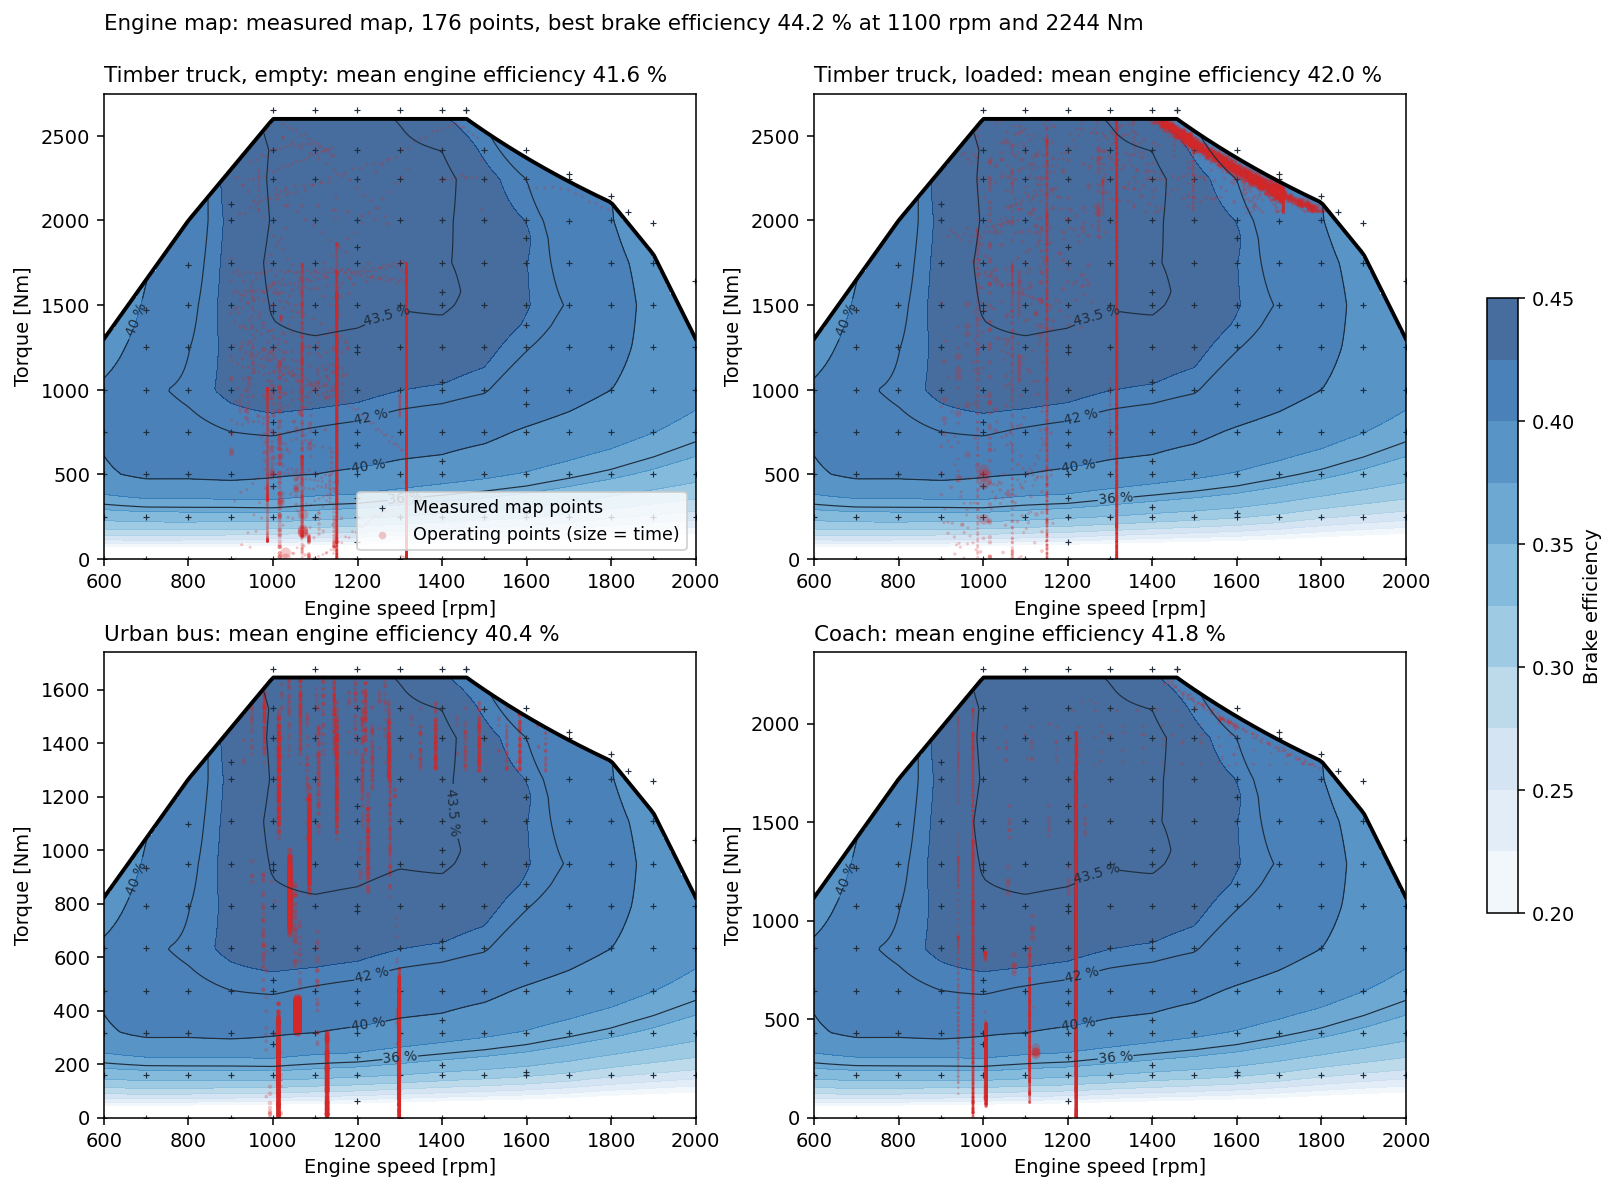
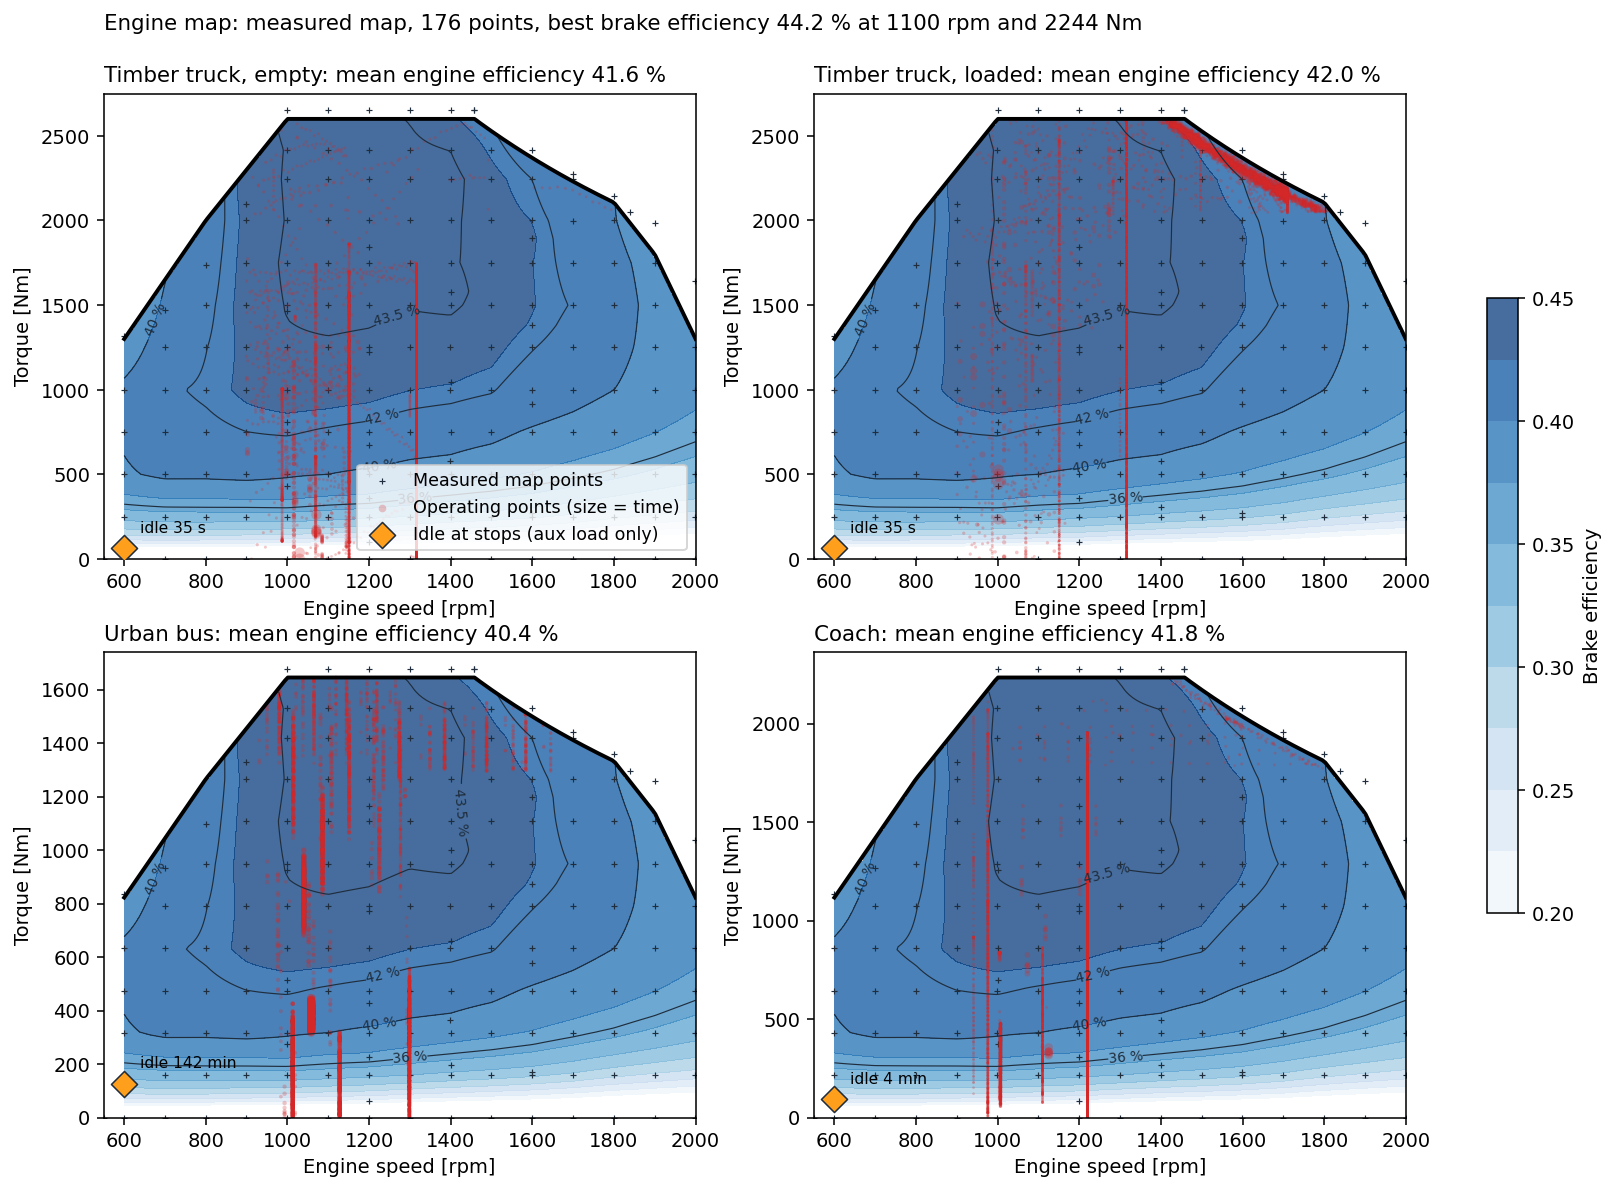
mini-VECTO 0.2.1: FCEV energy management gives priority to regeneration
- electric.py: when the buffer battery cannot take more charge, the fuel cell
  now backs off first (to its minimum load, ramp limited) and only then is
  regeneration cut. Before, regeneration was cut first while the fuel cell kept
  charging the battery. Loaded timber leg: regeneration 30 % -> 67 % of braking,
  H2 17.3 -> 16.0 kg/100 km (new stack). Other missions change by < 1 %.
- electric.py: P_motor_el_kW now reports the motor power after the cut.
- vehicles.json: timber truck buffer battery C_discharge 5.71 = 400 kW / 70 kWh
  (GenH2); C_charge 3C flagged as assumption with sensitivity; EMS rule in notes.
- plot_operating_points.py: idle at stops drawn (600 rpm, auxiliary torque).
- README: updated results and how to read the operating-points figure.

Claude-Session: https://claude.ai/code/session_01DRRNHNEwzejtbJWgH7FnLo

diff --git a/electric.py b/electric.py
@@ -151,6 +151,7 @@ class FuelCell:
         elif self.on and p_req < 0.5 * self.pmin:
             self.on = False
         tgt = min(max(p_req, self.pmin), self.pr) if self.on else 0.0
+        self.p_prev, self.dt_last = self.p, dt            # kept for the back-off when the battery is full
         self.p += max(-self.ramp * dt, min(self.ramp * dt, tgt - self.p))
         return self.p
 
@@ -236,7 +237,7 @@ def run(tag, kind):
             F_reg = min(F + 0.5 * m_eff_sim * min(v0s, drv.v_cut) ** 2 / DS, 0.0)
         acc = {k: 0.0 for k in ["mot", "regen", "aux", "bat", "loss", "fc", "dc", "h2b", "h2e", "fric"]}
         d = {"gear": 0, "t": 0.0, "w": 0.0, "p_el": 0.0, "f_regen": 0.0}
-        deficit, p_fc_drive, p_bat_drive = 0, 0.0, 0.0
+        deficit, p_fc_drive, p_bat_drive, p_mot_drive = 0, 0.0, 0.0, 0.0
         for sub, tt in (("dwell", st["dwell_s"]), ("drive", dt)):
             if tt <= 0:
                 continue
@@ -261,10 +262,20 @@ def run(tag, kind):
                         deficit = 1
             p_bat = p_mot + aux - p_dc
             if p_bat < -p_chg_ok:                                # more charging than the battery accepts
+                # Priority to regeneration (free energy): 1) the fuel cell backs off, but stays on at its minimum load
+                # and within its ramp limit; 2) regeneration is reduced (friction brakes); 3) only if the battery still
+                # cannot take the fuel cell power (e.g. SOC at soc_max) the fuel cell goes below its minimum load.
                 exc = -p_chg_ok - p_bat
-                cut = min(exc, max(-p_mot, 0.0))                 # 1) less regeneration (friction brakes)
-                p_mot += cut; exc -= cut
-                if exc > 0 and kind == "fcev":                   # 2) fuel cell backs off
+                if kind == "fcev" and p_fc > 0:
+                    floor = max(fc.pmin, fc.p_prev - fc.ramp * fc.dt_last)
+                    p_new = max(floor, p_fc - exc / 0.97)
+                    if p_new < p_fc:
+                        p_fc = p_new; fc.p = p_fc; p_dc = fc.dcdc(p_fc)
+                        exc = -p_chg_ok - (p_mot + aux - p_dc)
+                if exc > 0:
+                    cut = min(exc, max(-p_mot, 0.0))
+                    p_mot += cut; exc -= cut
+                if exc > 0 and kind == "fcev":
                     p_fc = max(0.0, p_fc - exc / 0.97); fc.p = p_fc; p_dc = fc.dcdc(p_fc)
                 p_bat = p_mot + aux - p_dc
             if kind == "bev" and (p_bat > bat.p_dis or bat.soc <= soc_min):
@@ -279,13 +290,13 @@ def run(tag, kind):
                     acc["h2b"] += p_fc * h / fc.eta(p_fc, "BOL") / LHV_H2
                     acc["h2e"] += p_fc * h / fc.eta(p_fc, "EOL") / LHV_H2
             if sub == "drive":
-                p_fc_drive, p_bat_drive = p_fc, p_bat
+                p_fc_drive, p_bat_drive, p_mot_drive = p_fc, p_bat, p_mot
                 if F < 0:
                     used = d["f_regen"] * (max(-p_mot, 0) / -d["p_el"] if d["p_el"] < 0 else 0.0)
                     acc["fric"] += (-F - used) * DS / 3.6e6
         n_inf += deficit
         st.update({"gear": d["gear"], "motor_torque_frac": round(d["t"], 3), "motor_speed_frac": round(d["w"], 3),
-                   "P_motor_el_kW": round(d["p_el"], 2), "E_motor_el_kWh": round(acc["mot"], 6),
+                   "P_motor_el_kW": round(p_mot_drive, 2), "E_motor_el_kWh": round(acc["mot"], 6),
                    "E_regen_el_kWh": round(acc["regen"], 6), "E_friction_brake_kWh": round(acc["fric"], 6),
                    "E_aux_kWh": round(acc["aux"], 6)})
         if kind == "bev":

diff --git a/plot_operating_points.py b/plot_operating_points.py
@@ -31,9 +31,17 @@ for ax, (tag, name) in zip(axs.flat, tags):
     dt = np.array([float(r["dt_drive_s"]) for r in rows]); ef = np.array([float(r["E_fuel_MJ"]) for r in rows])
     m = (tq > 0) & (dt > 0)
     ax.scatter(n[m], tq[m], s=np.clip(dt[m]*4, 2, 40), c="#d62728", alpha=0.25, lw=0, label="Operating points (size = time)")
+    # idle at stops (vehicle standing, clutch open): engine at n_idle, torque = auxiliary load only (powertrain.idle)
+    t_idle = sum(float(r["dwell_s"]) for r in rows)
+    if t_idle > 0:
+        n_i = veh["engine"]["n_idle_rpm"]; T_i = veh["aux_mech_kW"] * 1e3 / ptm.w(n_i)
+        ax.scatter([n_i], [T_i], s=90, marker="D", facecolor="#ff9f1c", edgecolor="#1f2d3d", lw=0.8, zorder=5,
+                   label="Idle at stops (aux load only)")
+        ax.annotate(f"idle {t_idle/60:.0f} min" if t_idle >= 60 else f"idle {t_idle:.0f} s", (n_i, T_i),
+                    xytext=(8, 8), textcoords="offset points", fontsize=8)
     w_eta = summary[tag]["mean_engine_eff_pct"]             # engine work / fuel energy, idling included
     ax.set_title(f"{name}: mean engine efficiency {w_eta:.1f} %", loc="left", fontsize=11)
-    ax.set_xlabel("Engine speed [rpm]"); ax.set_ylabel("Torque [Nm]"); ax.set_xlim(600, 2000); ax.set_ylim(0, 2750*eng.k)
+    ax.set_xlabel("Engine speed [rpm]"); ax.set_ylabel("Torque [Nm]"); ax.set_xlim(550, 2000); ax.set_ylim(0, 2750*eng.k)
 axs[0, 0].legend(loc="lower right", fontsize=9)
 fig.colorbar(cs, ax=axs, shrink=0.6, label="Brake efficiency")
 fig.suptitle("Engine map: " + ptm.MAP_INFO["label"], x=0.125, y=0.94, ha="left", fontsize=11)

diff --git a/README.md b/README.md
@@ -46,10 +46,10 @@ The run takes under a minute and prints a table like this (measured engine map, 
 ```
 Mean consumption per 100 km
 mission         Diesel l   HVO l  H2-ICE kg   FCEV kg new/aged  BEV kWh (battery)
-timber_empty        33.3    34.6        9.3          7.6 / 9.7                154
-timber_loaded       75.1    78.0       21.6        17.3 / 22.1                278
-urban_bus           42.4    44.1       11.9          6.6 / 8.4                122
-coach               25.1    26.1        7.0          5.9 / 7.6                115
+timber_empty        33.3    34.6        9.3          7.5 / 9.6                154
+timber_loaded       75.1    78.0       21.6        16.0 / 20.3                278
+urban_bus           42.4    44.1       11.9          6.5 / 8.4                122
+coach               25.1    26.1        7.0          5.9 / 7.5                115
 ```
 
 On macOS or Windows you can also double click `RUN_MODEL_mac.command` or `RUN_MODEL_windows.bat`. A step-by-step guide is in [docs/QUICK_START.pdf](docs/QUICK_START.pdf).
@@ -134,12 +134,14 @@ The engine map scales with `displacement_l`, while `rated_power_kW` limits the s
 | Diesel, loaded timber truck [l/100 km] | 75.1 (67.1) | 52–69 | Noreland 2025, measured fleet |
 | Diesel, empty timber truck [l/100 km] | 33.3 (31.9) | 34–47 | Noreland 2025, measured fleet |
 | Idle fuel [l/h] | 2.2 (2.8) | about 2.4 | Noreland 2025 |
-| Fuel cell bus [kg H2/100 km] | 6.6–8.4 | 7.7 | JIVE 2, measured, 12 m buses |
+| Fuel cell bus [kg H2/100 km] | 6.5–8.4 | 7.7 | JIVE 2, measured, 12 m buses |
 | Electric timber truck, loaded / empty [kWh/km] | 2.78 / 1.54 | 2.5 / 1.5 | Skogforsk 2023, planning values |
 
 Fuel cell range = new to aged stack. Electric results do not depend on the engine map.
 
 ![Engine operating points on the efficiency map](docs/img/fig_operating_points.png)
+
+How to read the figure: the orange diamond is idle at the stops (vehicle standing, clutch open, 600 rpm, torque = auxiliary load only). The red vertical lines are steady cruising in top gear: with the clutch closed the engine speed is fixed by the vehicle speed (n = v · i_gear · i_axle / (2π r)), e.g. coach 100 km/h = 1220 rpm, truck 80 km/h = 1320 rpm, bus 50 km/h = 1300 rpm, and the torque changes with the grade; on gentle downhills it falls to the auxiliary load (near 0 Nm). Steps with the engine dragged by the vehicle (overrun, fuel cut-off, 0 fuel) are not drawn. The measured points at 0 Nm are test-bench points with zero brake torque (engine firing).
 
 ## Known limits
 
@@ -149,6 +151,7 @@ Fuel cell range = new to aged stack. Electric results do not depend on the engin
 - Battery-electric and fuel cell vehicles carry `extra_mass_kg`, the hydrogen engine `h2ice_mass` > `extra_mass_kg` (net of the removed diesel parts; arithmetic in `mass_breakdown_kg`, references in `electric` > `mass_sources`). Diesel and HVO100 use the diesel vehicle mass; the hydrogen engine is simulated in a second run (`consumption_h2ice_<mission>.csv`). The loaded timber leg has `max_gross_kg` = 74 t (Swedish BK4): the gross mass stays at the limit and the extra mass reduces the payload (`payload_kg` and `timber_t_per_round_trip` in the summaries; round-trip column of the Excel Summary). Open issue: motor and engine sizing should follow an equal power-to-mass rule (`power_to_mass_rule` in vehicles.json).
 - Routes are synthetic, not GPS tracks.
 - Gear shifting is ideal (lowest fuel use at each step); there is no engine start-stop.
+- Fuel cell energy management: when the buffer battery cannot take more charge, the fuel cell backs off first (down to its minimum load, ramp limited) and only then is regeneration reduced. The buffer-battery charge limit (3C, 210 kW on the timber truck) is an assumption and is now the limit on regeneration of the loaded timber leg (67 % of the braking energy recovered); with 5C the hydrogen use of that leg falls by only 0.3 %.
 - Several fuel cell and electric-drive inputs are assumptions: part-load points of the efficiency curve, minimum load, ramp rate, DC/DC losses, regeneration limits, bus and coach component sizes.
 - No cabin heating model, and no crane work for the timber truck.
 
